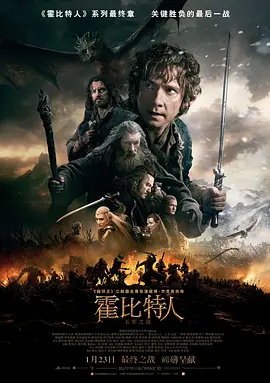
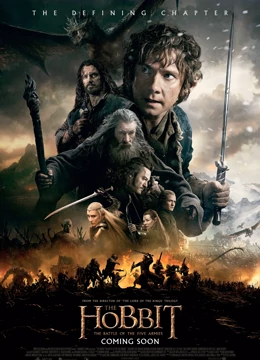
更换了图片，添加了更多的电影信息，修改了格式

diff --git a/src/main/resources/templates/index.html b/src/main/resources/templates/index.html
@@ -483,19 +483,19 @@
 		let addrecommend1=document.createElement("div")
 		addrecommend1.className="col-md-3 content-grid"
 		addrecommend1.innerHTML='<img src="../static/images/album/三只小猪.webp" title="allbum-name" onClick="showSongPage(1)"><a className="button play-icon popup-with-zoom-anim" href="">占个地方</a>'
-		recommendMoviesList.appendChild(addrecommend1)
+		//recommendMoviesList.appendChild(addrecommend1)
 		let addrecommend2=document.createElement("div")
 		addrecommend2.className="col-md-3 content-grid"
 		addrecommend2.innerHTML='<img src="../static/images/album/三只小猪.webp" title="allbum-name" onClick="showSongPage(1)"><a className="button play-icon popup-with-zoom-anim" href="">占个地方</a>'
-		recommendMoviesList.appendChild(addrecommend2)
+		//recommendMoviesList.appendChild(addrecommend2)
 		let addrecommend3=document.createElement("div")
 		addrecommend3.className="col-md-3 content-grid"
 		addrecommend3.innerHTML='<img src="../static/images/album/三只小猪.webp" title="allbum-name" onClick="showSongPage(1)"><a className="button play-icon popup-with-zoom-anim" href="">占个地方</a>'
-		recommendMoviesList.appendChild(addrecommend3)
+		//recommendMoviesList.appendChild(addrecommend3)
 		let addrecommend4=document.createElement("div")
 		addrecommend4.className="col-md-3 content-grid"
 		addrecommend4.innerHTML='<img src="../static/images/album/三只小猪.webp" title="allbum-name" onClick="showSongPage(1)"><a className="button play-icon popup-with-zoom-anim" href="">占个地方</a>'
-		recommendMoviesList.appendChild(addrecommend4)
+		//recommendMoviesList.appendChild(addrecommend4)
 	}
 
 

diff --git a/src/main/resources/static/css/style.css b/src/main/resources/static/css/style.css
@@ -659,8 +659,8 @@ ul.nav li a span {
    position: absolute;
   right:90px;
   width: 0%;
-  min-width:70px;
-  height:65px;
+  min-width:57px;
+  height:57px;
   float: right;
   overflow: hidden;
   -webkit-transition: width 0.3s;
@@ -704,7 +704,7 @@ ul.nav li a span {
 	height:40px;
 	display: block;
 	position: absolute;
-	right: 1%;
+	right: -7px;
 	top: 0%;
 	padding: 0;
 	margin: 0;
@@ -1224,7 +1224,7 @@ fieldset#body {
   padding: 6px;
   font-size: 0.8125em;
   -webkit-apperance: none;
-  outline: none
+  outline: none;
   font-family: 'Open Sans', sans-serif;
 }
 #body label i {

diff --git a/src/main/resources/templates/classify.html b/src/main/resources/templates/classify.html
@@ -275,7 +275,7 @@
 											<div class="col-md-3 artist-grid">
 												<img src="../static/images/classify/mh.jpg" title="allbum-name" onclick="showList(15)">
 												 <a href="" onclick="showList(15)"><i class="glyphicon glyphicon-play-circle"></i></a>
-													<a class="art" href=""onclick="showList(15)">魔幻</a>
+													<a class="art" href=""onclick="showList(15)">科幻</a>
 											</div>
 											<div class="clearfix"> </div>
 									</div>

diff --git a/src/main/java/com/example/demo/service/impl/CommentServiceImpl.java b/src/main/java/com/example/demo/service/impl/CommentServiceImpl.java
@@ -77,8 +77,14 @@ public class CommentServiceImpl implements CommentService {
     public ArrayList<CommentVO> searchHotComments() {
         ArrayList<Comment> comments = commentMapper.searchHotComments();
         ArrayList<CommentVO> commentVOS = new ArrayList<>();
-        for(Comment comment:comments)
+        for(Comment comment:comments){
+            String commentContent = comment.getContent();
+            if(commentContent.length() > 40){
+                comment.setContent(commentContent.substring(0,40)+"......");
+            }
             commentVOS.add(makeCommentVO(comment));
+        }
+
         return commentVOS;
     }
 
